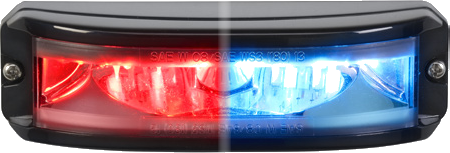
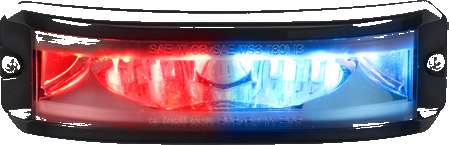
studio36: recut MPSW9 to the black housing
Drop the light-gray datasheet surround so the sprite is only the black bezel and the lit lens. FX_V is max14. T-MPSW9-POD fails if more than 5% of opaque pixels outside the lens are near-white or light-gray backing.

diff --git a/visualizer/index.html b/visualizer/index.html
@@ -220,7 +220,7 @@ select:focus,input[type=text]:focus{box-shadow:0 0 0 2px color-mix(in srgb,var(-
 /* Multi-canvas visualizer. Catalog is shared FedSig SKUs (no invented lights).
    Durango mounts stay as previously signed; trucks have their own snaps. */
 var ASSET_V="studio36";
-var FX_V="max13";
+var FX_V="max14";
 /* Fallback thickness if a Dyna row has no faceIn. Real rows use faceIn. */
 var DYNA_H=2.2;
 var DURANGO_VIEWS=[

diff --git a/visualizer/TRAP-LOG.md b/visualizer/TRAP-LOG.md
@@ -3,13 +3,13 @@
 Self-test owned by this pass. Valentine trap-scores after. This file does **not** certify buyer-ready.
 
 - Ran: `node visualizer/_src/run-traps.mjs` (local Chrome, not Rusty’s live preview)
-- ASSET_V: studio36 · FX_V: max13
+- ASSET_V: studio36 · FX_V: max14
 - Signed Durango plate bytes: T-PLATE-HASHES (Front/Right/Rear/Hatch/Left not recut)
 - studio35: Durango Rear ghost of a Front roof bar is bottom-anchored at y=16.4 (no barNudge), on the roof above the spoiler. Width uses the 858px widest-body span as 76 inches (42.4" ≈ 46.7% of the plate). Silverado/F-150 Rear stay center-anchored at y=20. Left/Right end-caps unchanged. Front clickPlace / defaultFor `_` unchanged. Plates unchanged.
 - Look trap: T-REAR-BAR-ON-ROOF — Durango Rear bar bottom <= 16.5% of plate height and top >= 12%; fail if the bar reaches 18%+. Width within ±5% of (858/1024)*(42.4/76). Height keeps the sprite aspect.
 - studio34 carry: Left/Right roof bar is a drawn end-on housing (depth along the car, rounded shell, scheme lens, feet on the roof). T-SIDE-ENDCAP-LOOK / T-SIDE-ENDCAP-NOT-CROP still apply.
 - Any light, any view: clickPlace no longer refuses Left/Right, no longer forces the roof bar or visor onto Front, and no longer purges off-front bars. Snap grids unchanged. T-ANY-LIGHT-ANY-VIEW.
-- studio36: DynaFlare sprites follow the Federal Signal face (length × 1.1in) and MPSW9 is the 5.04in curved pod (sprite aspect ≤ 3). Scaled with bodyInToPct. Roof bar, end-caps, and plates unchanged.
+- studio36: DynaFlare sprites follow the Federal Signal face (length × 1.1in) and MPSW9 is the 5.04in black pod (sprite aspect ≤ 3.6; the black-housing cut is ~3.1). T-MPSW9-POD fails if more than 5% of opaque pixels outside the lit lens are near-white (RGB > 220) or light-gray backing (sat < 40, every channel > 120). Scaled with bodyInToPct. Roof bar, end-caps, and plates unchanged.
 
 | Trap | Result | Detail |
 |---|---|---|
@@ -75,6 +75,6 @@ Self-test owned by this pass. Valentine trap-scores after. This file does **not*
 | T-ILS-FRONT-ONLY | PASS | {"sifLeft":{"from":"left","after":"left","on":{"front":0,"rear":0,"rear_open":0,"left":1,"right":0,"hero":0},"total":1,"sku":"SIFMJS"},"sifFront":{"from":"front","after":"front","on":{"front":2,"rear":0,"rear_open":0,"left":0,"right":0,"hero":0},"total":2,"sku":"SIFMJS"}} |
 | T-ANY-LIGHT-ANY-VIEW | PASS | 434 SKU×view placements stayed on the clicked view |
 | T-FRONT-FALLBACK-ON-FRONT | PASS | {"algt":{"after":"front","onFront":1,"lights":1},"sif":{"after":"front","onFront":2,"lights":2},"mps63":{"after":"front","onFront":1,"lights":1},"bumper":{"after":"front","onFront":4,"lights":4},"xsm2":{"after":"front","onFront":1,"lights":1},"dr6":{"after":"front","onFront":1,"lights":1},"stick":{"after":"front","onFront":1,"lights":1}} |
-| T-MPSW9-POD | PASS | {"w":2.39,"fx":"fx_mpsw9_rb.png","boxW":18,"boxH":6,"nw":450,"nh":153,"src":"fx/fx_mpsw9_rbw.png?v=max13"} |
+| T-MPSW9-POD | PASS | {"pod":{"w":2.39,"fx":"fx_mpsw9_rb.png","boxW":18,"boxH":6,"nw":449,"nh":145,"src":"fx/fx_mpsw9_rbw.png?v=max14"},"podAsp":3.097,"podBoxAsp":3,"white":[{"file":"fx_mpsw9_rb.png","w":449,"h":145,"opaque":53534,"nearWhiteOutside":0,"grayOutside":0,"frac":0,"ok":true},{"file":"fx_mpsw9_bw.png","w":449,"h":145,"opaque":53534,"nearWhiteOutside":0,"grayOutside":0,"frac":0,"ok":true},{"file":"fx_mpsw9_rw.png","w":449,"h":145,"opaque":53534,"nearWhiteOutside":0,"grayOutside":0,"frac":0,"ok":true},{"file":"fx_mpsw9_rbw.png","w":449,"h":145,"opaque":53534,"nearWhiteOutside":0,"grayOutside":0,"frac":0,"ok":true}]} |
 
 All named traps PASS.
